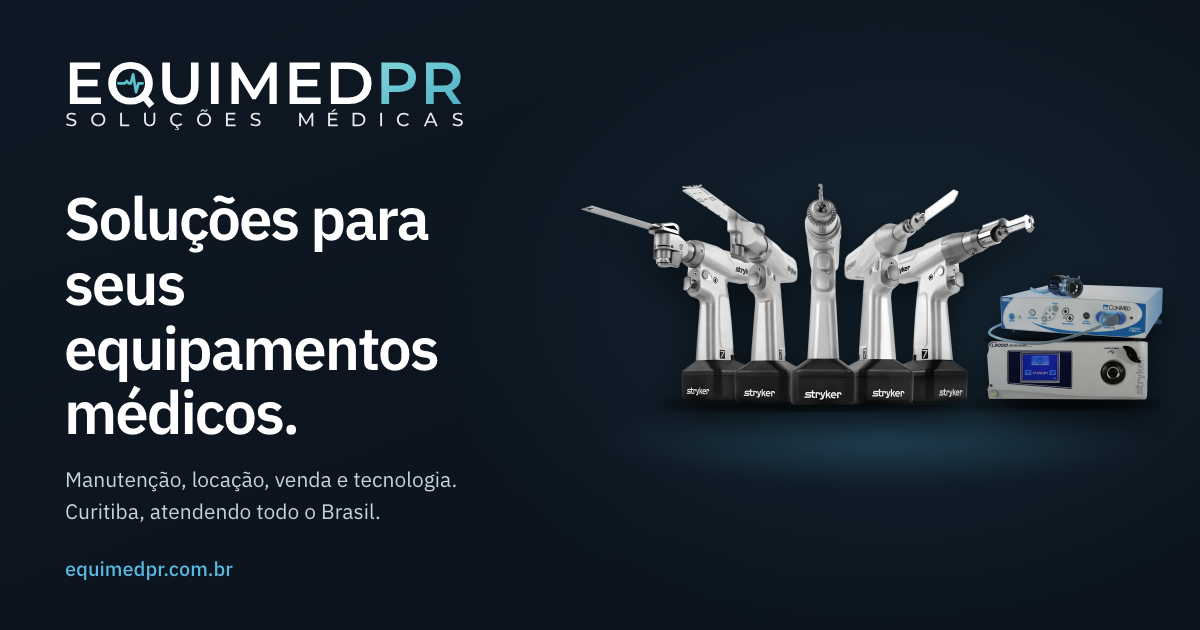
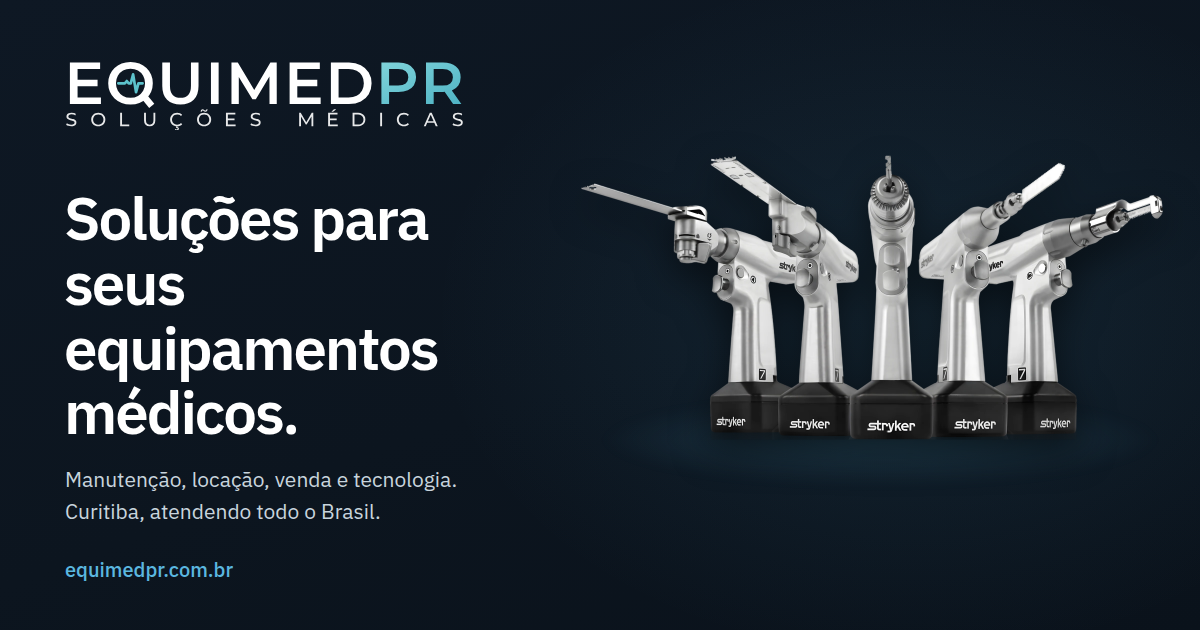
Home cover drills only; console + shaver band; Locação/Venda first slides redone; live ECG traces; cut-outs on navy in page headers (feedback 10-11/11)
- Home cover: System 7 drill and saw line-up only, larger (consoles removed). Share image rebuilt.
- Home band: the soldering bench photo and its copy are replaced by a Stryker 1288 HD console with three shaver handpieces, copy on the blurred room at the top left; stacked on mobile.
- Locação: System 8 pair recomposed with the saw lower so both units read; the System 7 sagittal slide leaves this carousel.
- Venda: first slide is the System 8 rotary drill photo, replacing the System 7 pair.
- ECG traces (process steps, closing CTA, inner page headers): once drawn, a blip keeps sweeping along them like the hero monitor; off with reduced motion.
- Dark page headers: cut-outs sit straight on the navy with a signal glow and floor shadow, like the home cover, instead of a white studio plate. Cards on white sections keep the plate.
- Unused images removed.

diff --git a/src/styles/main.css b/src/styles/main.css
@@ -346,6 +346,10 @@
   .gallery__slide img { width: 100%; height: 100%; object-fit: cover; }
   .gallery__slide:has(.is-cutout), .frame:has(> .is-cutout) { background: var(--plate-studio); }
   img.is-cutout { object-fit: contain !important; padding: 4%; }
+  /* Dark page headers: cut-outs sit straight on the navy like the home cover (no white plate), with a soft signal glow and floor shadow. */
+  .page-header .gallery__slide:has(.is-cutout), .page-header .frame:has(> .is-cutout) { background: radial-gradient(60% 55% at 50% 52%, rgba(91,184,224,.20) 0%, rgba(91,184,224,.05) 45%, transparent 72%); }
+  .page-header .gallery__track:has(.is-cutout) { background: transparent; }
+  .page-header img.is-cutout { padding: 1%; filter: drop-shadow(0 0 1px rgba(190,220,240,.55)) drop-shadow(0 0 10px rgba(91,184,224,.22)) drop-shadow(0 22px 26px rgba(0,0,0,.5)); }
   .gallery__nav { display: flex; align-items: center; justify-content: space-between; gap: 0.75rem; }
   .gallery__btn { display: inline-grid; place-items: center; width: 2.75rem; height: 2.75rem; border: 1px solid rgba(255,255,255,0.35); background: transparent; color: #FFFFFF; border-radius: 999px; cursor: pointer; }
   .gallery__btn:hover { background: #FFFFFF; color: var(--color-navy); }
@@ -537,6 +541,23 @@
   .band__copy { padding-block: 4rem clamp(3.5rem, 7vw, 5.5rem); }
   .band__quote { margin: 0 0 1rem; font-size: clamp(1.8rem, 1.2rem + 2.4vw, 3.25rem); line-height: 1.06; font-weight: 600; letter-spacing: -.035em; max-width: 18ch; text-wrap: balance; }
   .band__sub { margin: 0; max-width: 34rem; color: var(--color-on-dark-2); font-size: 1.125rem; }
+  /* Console + shaver banner (feedback 10-11/11): the whole composition stays in view, copy sits on the blurred room at the top left. */
+  .band--console { min-height: 0; aspect-ratio: 1600 / 630; align-items: start; }
+  .band--console .band__media { inset: 0; }
+  .band--console::after { background: radial-gradient(58% 80% at 16% 10%, rgba(10,18,26,.9) 0%, rgba(10,18,26,.66) 48%, rgba(10,18,26,0) 88%), linear-gradient(180deg, rgba(10,18,26,.35) 0%, rgba(10,18,26,0) 40%); }
+  .band--console .band__copy { text-shadow: 0 1px 12px rgba(10,18,26,.55); }
+  .band--console .band__copy { padding-block: clamp(2rem, 4vw, 4rem) 2rem; }
+  .band--console .band__quote { font-size: clamp(1.75rem, 1rem + 2.2vw, 3rem); max-width: 14ch; margin-bottom: .75rem; }
+  .band--console .band__sub { max-width: 28rem; font-size: clamp(1rem, .9rem + .3vw, 1.125rem); }
+  .band__points { display: flex; flex-wrap: wrap; gap: .5rem 1.25rem; margin: 1.1rem 0 0; padding: 0; list-style: none; font-size: .9375rem; font-weight: 600; color: #FFFFFF; }
+  .band__points li { display: flex; align-items: center; gap: .5rem; }
+  .band__points li::before { content: ""; width: .5rem; height: .5rem; border-radius: 50%; background: var(--color-signal); }
+  @media (width < 56rem) {
+    .band--console { aspect-ratio: auto; display: flex; flex-direction: column; }
+    .band--console .band__media { position: relative; inset: auto; order: 2; aspect-ratio: 1600 / 630; z-index: 0; }
+    .band--console::after { display: none; }
+    .band--console .band__copy { padding-block: 3rem 1.75rem; }
+  }
 
   /* Horizontal rail (pinned on desktop) */
   .hs { position: relative; isolation: isolate; background: radial-gradient(55% 70% at 12% 0%, rgba(91,184,224,.16) 0%, transparent 60%), radial-gradient(50% 70% at 100% 100%, rgba(31,74,99,.14) 0%, transparent 60%), linear-gradient(180deg, #EDF3F7 0%, #E4ECF1 100%); }
@@ -589,6 +610,14 @@
   @media (width >= 56rem) { .flow__trace { display: block; } }
   .flow__trace .base { fill: none; stroke: var(--color-line); stroke-width: 1.5; }
   .flow__trace .live { fill: none; stroke: var(--color-signal); stroke-width: 2.25; stroke-linejoin: round; stroke-linecap: round; stroke-dasharray: 1; stroke-dashoffset: calc(1 - var(--fp, 1)); filter: drop-shadow(0 0 4px rgba(91,184,224,.5)); }
+  /* Once a trace is fully drawn, a bright blip keeps running along it, like the hero monitor's sweep head. */
+  .flow__trace .blip, .pulse .blip { fill: none; stroke: #EAF6FC; stroke-width: 2.5; stroke-linecap: round; stroke-linejoin: round; stroke-dasharray: .035 2; stroke-dashoffset: .035; filter: drop-shadow(0 0 3px rgba(91,184,224,.95)) drop-shadow(0 0 8px rgba(91,184,224,.6)); animation: blip 5.5s linear infinite; }
+  .flow__trace .blip { stroke: var(--color-petrol-link); stroke-width: 3.25; stroke-dasharray: .03 2; stroke-dashoffset: .03; filter: drop-shadow(0 0 4px rgba(91,184,224,.9)); animation-duration: 6s; opacity: clamp(0, (var(--fp, 1) - .97) * 34, 1); transition: opacity .4s; }
+  .pulse .blip { opacity: clamp(0, (var(--cp, 1) - .97) * 34, 1); }
+  .pulse--hero .blip { opacity: 0; animation-delay: 2.6s; }
+  .is-loaded .pulse--hero .blip { opacity: 1; stroke-dashoffset: .035; animation: blip 5.5s linear 2.6s infinite; }
+  @keyframes blip { to { stroke-dashoffset: -1; } }
+  @media (prefers-reduced-motion: reduce) { .flow__trace .blip, .pulse .blip { display: none; } }
   .flow__step { position: relative; display: grid; gap: .6rem; align-content: start; padding-left: 3.5rem; }
   @media (width >= 56rem) { .flow__step { padding-left: 0; } }
   .flow__step::before { counter-increment: s; content: counter(s); position: absolute; left: 0; top: -.15rem; width: 2.5rem; height: 2.5rem; display: grid; place-items: center; border-radius: 50%; background: #FFFFFF; border: 1.5px solid var(--color-line); font-weight: 600; color: var(--color-ink-3); transition: background-color .4s, border-color .4s, color .4s, box-shadow .4s; }
